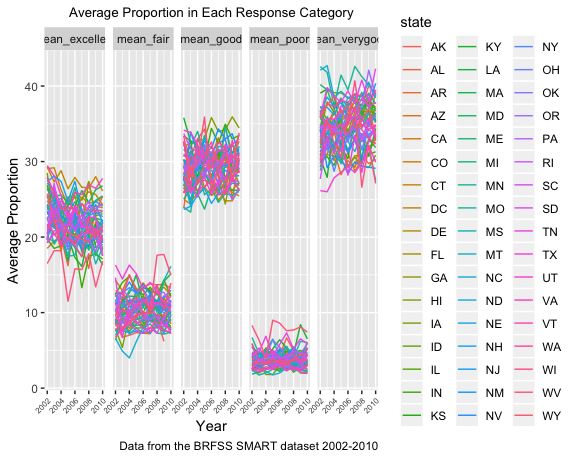
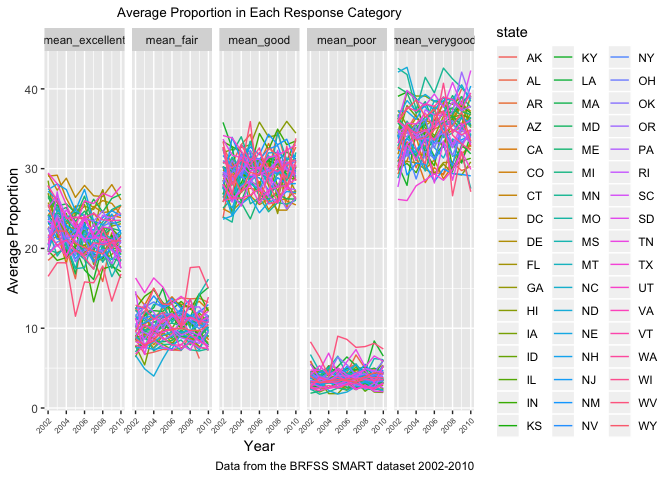
Final edits? Trying to make plots look pretty

Changed region(s): [[0.0, 0.0, 1.0, 1.0]]

diff --git a/p8105_hw3_edm2152.md b/p8105_hw3_edm2152.md
@@ -54,7 +54,7 @@ brfss_data %>%
         plot.title = element_text(hjust = 0.5, size = 10))
 ```
 
-<img src="p8105_hw3_edm2152_files/figure-markdown_github/spaghetti-1.png" width="90%" />
+![](p8105_hw3_edm2152_files/figure-markdown_github/spaghetti-1.png)
 
 The table below shows, for the years 2002, 2006, and 2010, the mean and standard deviation of the proportion of “Excellent” responses across locations in NY State:
 
@@ -99,7 +99,7 @@ brfss_data %>%
         plot.title = element_text(hjust = 0.5, size = 10))
 ```
 
-<img src="p8105_hw3_edm2152_files/figure-markdown_github/avg_prop-1.png" width="90%" />
+![](p8105_hw3_edm2152_files/figure-markdown_github/avg_prop-1.png)
 
 Problem 2
 ---------
@@ -180,7 +180,7 @@ instacart_data %>%
         plot.title = element_text(hjust = 0.5, size = 10))
 ```
 
-<img src="p8105_hw3_edm2152_files/figure-markdown_github/items plot-1.png" width="90%" />
+![](p8105_hw3_edm2152_files/figure-markdown_github/items%20plot-1.png)
 
 The table below shoes the most popular item in the following three aisles:
 
@@ -285,7 +285,7 @@ ny_noaa_data %>%
         plot.title = element_text(hjust = 0.5, size = 10))
 ```
 
-<img src="p8105_hw3_edm2152_files/figure-markdown_github/unnamed-chunk-3-1.png" width="90%" />
+![](p8105_hw3_edm2152_files/figure-markdown_github/unnamed-chunk-3-1.png)
 
 Two-panel plot of:
 
@@ -308,7 +308,7 @@ temp_plot =
                      labels = c("-60°", "-45°", "-30°", "-15°", "0°", "15°", "30°", "45°", "60°")) +
   scale_y_continuous(breaks = c(-60, -45, -30, -15, 0, 15, 30, 45, 60), 
                      labels = c("-60°", "-45°", "-30°", "-15°", "0°", "15°", "30°", "45°", "60°")) +
-  theme(plot.title = element_text(hjust = 0.5, size = 10),
+  theme(plot.title = element_text(size = 10),
         legend.position = "bottom",
         legend.text = element_text(angle = 45, hjust = 1))
  
@@ -325,12 +325,12 @@ snowfall_plot =
        caption = "Data from the rnoaa package") + 
   scale_x_continuous(breaks = c(0, 20, 40, 60, 80, 100), 
                    labels = c("0", "20", "40", "60", "80", "100")) +
-  theme(plot.title = element_text(hjust = 0.5, size = 10),
+  theme(plot.title = element_text(size = 10),
         legend.position = "none")
 
-temp_plot / snowfall_plot
+temp_plot + snowfall_plot
 ```
 
     ## Picking joint bandwidth of 3.76
 
-<img src="p8105_hw3_edm2152_files/figure-markdown_github/unnamed-chunk-4-1.png" width="90%" />
+![](p8105_hw3_edm2152_files/figure-markdown_github/unnamed-chunk-4-1.png)
